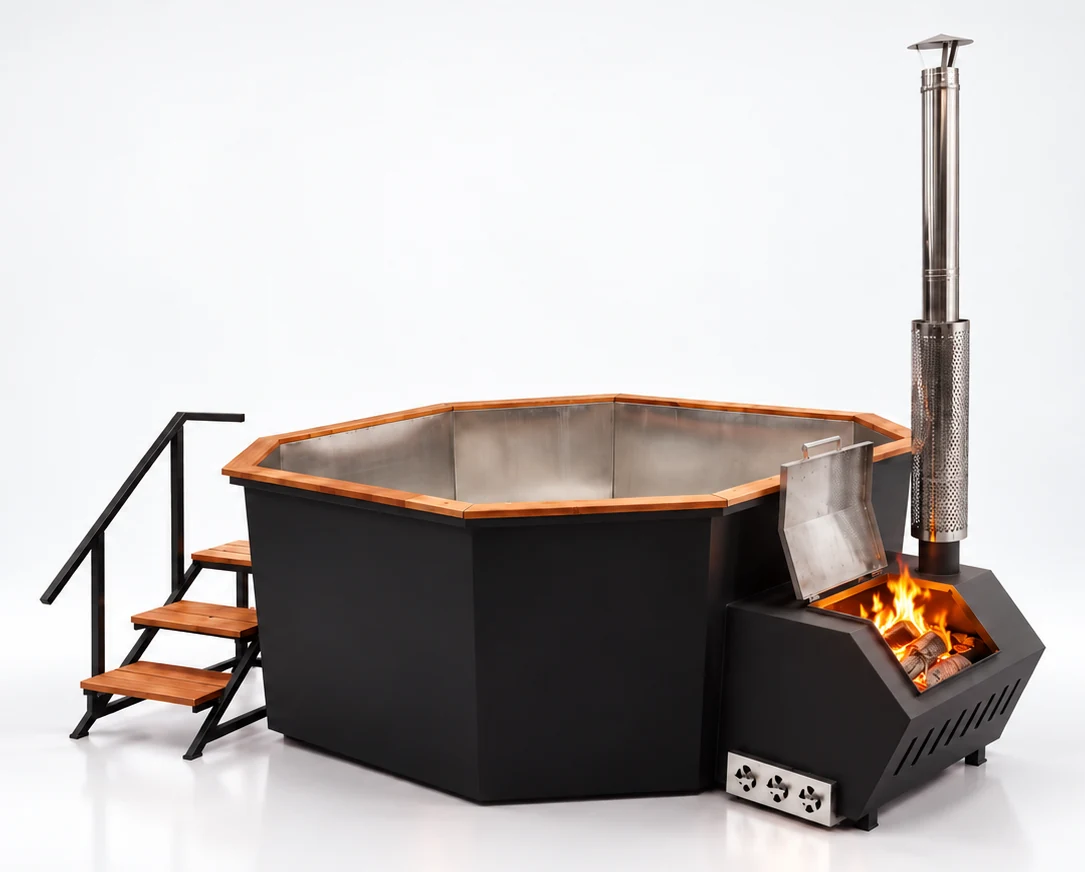
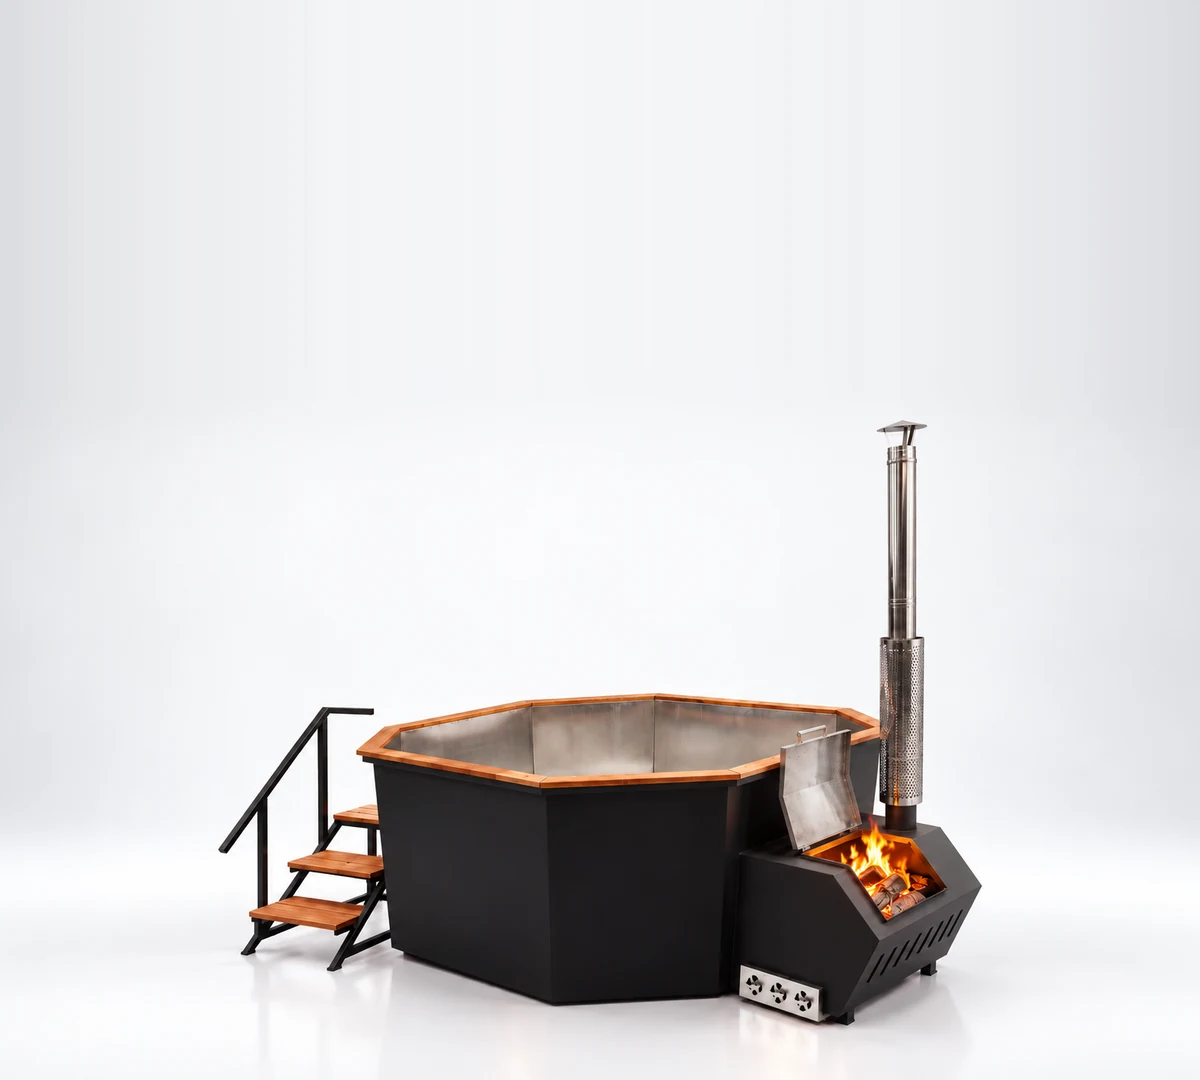
Let the card shots fill their block, and run them on the home page too
The photograph sat inside the block with the studio sweep ending at its own
edge, so the card showed a rectangle of one grey inside a panel of another
and read as a cropped picture. The shots are now laid out on a card-shaped
canvas by the script: the bowls still match across the line, but each image
fills its box edge to edge, and where a shot scaled down to match no longer
reaches the top, its own sweep is carried up to meet it rather than a colour
of ours being painted behind it.

Keying the product out of the backdrop was tried first. It does not work on
this set — the sweep is lit brightest directly behind the product, so any
backdrop test either keeps the hot centre or eats the chimney.

With the shots no longer framed, the home page shows them as well; it had
been holding out for photography that has now arrived.

Claude-Session: https://claude.ai/code/session_01TguMyRvyZftt8ueoPbGrxp

diff --git a/src/data/models.ts b/src/data/models.ts
@@ -76,15 +76,6 @@ export interface ModelPhotos {
   /** Product shot on the catalogue card — the studio set on a white sweep. */
   card?: string
   /**
-   * Width of the card shot inside its box, as a share of that box.
-   *
-   * Same story as `heroWidth`: the studio set shares one angle and one light
-   * but not one distance, so each shot needs its own width for the bowls to
-   * read as a single line. Computed by `scripts/normalise-card-photos.py` —
-   * re-run it after adding a photograph rather than guessing a value.
-   */
-  cardWidth?: number
-  /**
    * Width of the hero shot on a large screen, as a share of the viewport.
    *
    * Every photograph was taken at its own distance, so the same render width
@@ -170,7 +161,7 @@ export const models: Model[] = [
     ],
     // Only the model page's own hero: the home page and the catalogue card
     // are waiting for their own shots.
-    photos: { card: 'grafit-card.webp', cardWidth: 0.53, hero: 'grafit-hero.webp', heroWidth: 0.596, heroTone: '#263b44', heroBoost: 1.18 },
+    photos: { card: 'grafit-card.webp', hero: 'grafit-hero.webp', heroWidth: 0.596, heroTone: '#263b44', heroBoost: 1.18 },
     includes: [...commonIncludes, 'Ветрозащита без дна', 'Дымоход 3 м и защитный экран'],
     seoTitle: 'Банный чан «Графит»',
     seoDescription:
@@ -188,7 +179,7 @@ export const models: Model[] = [
     stove: 'Стационарная, чугунный колосник и выдвижной зольный ящик',
     bowlShape: 'faceted',
     theme: 'ink',
-    photos: { card: 'cherny-brilliant-card.webp', cardWidth: 0.534, hero: 'cherny-brilliant-hero.webp', heroWidth: 0.517, heroTone: '#441403' },
+    photos: { card: 'cherny-brilliant-card.webp', hero: 'cherny-brilliant-hero.webp', heroWidth: 0.517, heroTone: '#441403' },
     offers: [
       { cm: 175, price: 133000 },
       { cm: 210, price: 155500 },
@@ -215,7 +206,7 @@ export const models: Model[] = [
     stove: 'Разборная, жаропрочная сталь 09Г2С',
     bowlShape: 'rolled',
     theme: 'sand',
-    photos: { card: 'valtsovavich-card.webp', cardWidth: 0.756, hero: 'valtsovavich-hero.webp', heroWidth: 0.701, heroTone: '#3f4c5a' },
+    photos: { card: 'valtsovavich-card.webp', hero: 'valtsovavich-hero.webp', heroWidth: 0.701, heroTone: '#3f4c5a' },
     offers: [
       { cm: 175, price: 135000 },
       { cm: 210, price: 159000 },
@@ -243,7 +234,7 @@ export const models: Model[] = [
     bowlShape: 'faceted',
     theme: 'jade',
     badge: 'Хит продаж',
-    photos: { card: 'nefrit-card.webp', cardWidth: 0.562, hero: 'nefrit-hero.webp', heroWidth: 0.5, heroTone: '#3f4148' },
+    photos: { card: 'nefrit-card.webp', hero: 'nefrit-hero.webp', heroWidth: 0.5, heroTone: '#3f4148' },
     offers: [
       { cm: 175, price: 187000 },
       { cm: 210, price: 195990 },
@@ -271,7 +262,7 @@ export const models: Model[] = [
     stove: 'Выносная, водяной контур и теплосъёмные трубы',
     bowlShape: 'faceted',
     theme: 'olive',
-    photos: { card: 'oniks-card.webp', cardWidth: 0.96, hero: 'oniks-hero.webp', heroWidth: 0.751, heroTone: '#1a3935' },
+    photos: { card: 'oniks-card.webp', hero: 'oniks-hero.webp', heroWidth: 0.751, heroTone: '#1a3935' },
     offers: [
       { cm: 175, price: 188000 },
       { cm: 210, price: 199000 },
@@ -300,7 +291,7 @@ export const models: Model[] = [
     bowlShape: 'faceted',
     theme: 'terracotta',
     badge: 'Решение 4 в 1',
-    photos: { card: 'oniks-pro-card.webp', cardWidth: 0.81, hero: 'oniks-pro-hero.webp', heroWidth: 0.663, heroTone: '#692713' },
+    photos: { card: 'oniks-pro-card.webp', hero: 'oniks-pro-hero.webp', heroWidth: 0.663, heroTone: '#692713' },
     offers: [
       { cm: 210, price: 294000 },
       { cm: 235, price: 353000 },
@@ -327,7 +318,7 @@ export const models: Model[] = [
     stove: 'Боковая приварная расширенная, водяной контур и теплосъёмные трубы',
     bowlShape: 'faceted',
     theme: 'copper',
-    photos: { card: 'grant-card.webp', cardWidth: 0.686, hero: 'grant-hero.webp', heroWidth: 0.783, heroTone: '#60220b' },
+    photos: { card: 'grant-card.webp', hero: 'grant-hero.webp', heroWidth: 0.783, heroTone: '#60220b' },
     offers: [
       { cm: 235, price: 459000 },
       { cm: 250, price: 588000 },

diff --git a/src/components/ui/ModelCard.tsx b/src/components/ui/ModelCard.tsx
@@ -1,4 +1,3 @@
-import type { CSSProperties } from 'react'
 import { Link } from 'react-router-dom'
 import { ButtonLink } from './Button'
 import { ModelShot } from './ModelShot'
@@ -21,9 +20,9 @@ import {
  * while the catalogue page, which is where someone goes to compare the line,
  * shows every model as it really looks.
  *
- * The shot is contained rather than cropped, on a panel tinted to the studio
- * sweep it was photographed against, so the join is invisible; its width comes
- * from the model, so every bowl in the grid reads at one size.
+ * The shot fills its box edge to edge: `scripts/normalise-card-photos.py`
+ * lays each photograph out on a card-shaped canvas, so the page has no frame
+ * to draw around it and every bowl in the grid already reads at one size.
  */
 export function ModelCard({ model, photo = false }: { model: Model; photo?: boolean }) {
   return (
@@ -43,15 +42,7 @@ export function ModelCard({ model, photo = false }: { model: Model; photo?: bool
 
       <div className="relative mt-5 overflow-hidden rounded-card">
         {photo && model.photos?.card ? (
-          <div className="flex aspect-10/9 items-end justify-center bg-gradient-to-b from-[#ececed] to-[#f6f5f6]">
-            <ModelShot
-              model={model}
-              slot="card"
-              contain
-              style={{ '--card-w': `${(model.photos.cardWidth ?? 0.8) * 100}%` } as CSSProperties}
-              className="w-(--card-w)"
-            />
-          </div>
+          <ModelShot model={model} slot="card" ratio="10/9" />
         ) : (
           <PlaceholderImage
             tone="studio"

diff --git a/src/components/ui/ModelShot.tsx b/src/components/ui/ModelShot.tsx
@@ -8,6 +8,7 @@ type Slot = 'hero' | 'card'
 const ratios: Record<string, string> = {
   '4/3': 'aspect-4/3',
   '16/10': 'aspect-16/10',
+  '10/9': 'aspect-10/9',
 }
 
 /**
@@ -28,7 +29,7 @@ export function ModelShot({
   model: Model
   slot: Slot
   /** Ignored when `fill` is set — the shot then takes the parent's box. */
-  ratio?: '4/3' | '16/10'
+  ratio?: '4/3' | '16/10' | '10/9'
   className?: string
   /** Lets a caller size the shot, as the hero does per model. */
   style?: CSSProperties

diff --git a/src/pages/HomePage.tsx b/src/pages/HomePage.tsx
@@ -28,7 +28,7 @@ export function HomePage() {
     <>
       <Hero />
       <Advantages />
-      <Catalog />
+      <Catalog photos />
       <ModelShowcase />
       <Benefits />
       <Calculator />

diff --git a/scripts/normalise-card-photos.py b/scripts/normalise-card-photos.py
@@ -1,16 +1,22 @@
-"""Normalise the white-backdrop studio shots used on the catalogue cards.
+"""Lay out the white-backdrop studio shots as catalogue card images.
 
-The seven products were photographed on one sweep, in one light, from one
-angle — but not from one distance, so the bowl takes anywhere from a quarter
-to nearly half of its frame. Two steps bring them together: each shot is
-cropped to its own product, and each is given a render width, so rim x width
-lands on the same number for every model and the bowls read as one line.
+The seven products share one sweep, one light and one angle, but not one
+distance: the bowl takes anywhere from a quarter to nearly half of its frame.
+Each shot is therefore rescaled so that the bowl's rim lands on one width for
+the whole line, and placed on a card-shaped canvas, bottom-aligned and centred
+on the product.
 
-Why the width is not baked into the file: equalising the rims by padding or
-windowing inside the source cannot work for this set — Грант is framed so
-loosely that its window would have to be wider than the photograph, while
-Оникс has a chimney too tall for the window that its own rim would demand.
-Decoupling the width from the file is what lets every bowl match.
+The canvas is filled by the photograph itself rather than by a colour of ours.
+A shot scaled down far enough to match the others no longer reaches the top of
+the canvas, so the gap above it continues the sweep's own top edge, column by
+column — the sweep is smooth and nearly flat up there, so the join does not
+read. Keying the product out instead was tried first and does not work on this
+set: the sweep is lit brightest behind the product, so a backdrop test either
+keeps the hot centre or eats the chimney.
+
+The result is one image per model, all the same shape, each filling its box
+edge to edge — no frame around the photograph and nothing cropped off the
+product.
 
 Rim measurements are in pixels of the original frame. Six were found by
 scanning for the widest unbroken dark run in the upper frame; Грант's bowl is
@@ -19,7 +25,7 @@ was measured off the larch band instead.
 
     python3 scripts/normalise-card-photos.py
 """
-from PIL import Image
+from PIL import Image, ImageFilter
 
 SRC = 'assets/photos-src'
 DST = 'public/photos'
@@ -34,12 +40,17 @@ RIMS = {
     'grant': 724,
 }
 
-# Breathing room around the product, as a fraction of its own bounding box.
-MARGIN = 0.04
+# Card image shape and size. 10:9 is the shallowest box that holds the tallest
+# composition — Оникс, whose chimney stands well clear of its bowl.
+CANVAS = (1200, 1080)
 
-# Ceiling on how wide a card shot may run inside its box. The most loosely
-# framed model takes it and the rest come down to match.
-MAX_CARD = 0.96
+# Share of the canvas width taken by every bowl's rim. Raising it enlarges the
+# whole line together; past this, Оникс's chimney leaves the canvas.
+RIM_SHARE = 0.458
+
+# Where the product stands: its feet this far down the canvas, so the shot
+# keeps a little floor under it.
+FEET_AT = 0.95
 
 
 def content_box(image: Image.Image) -> tuple[int, int, int, int]:
@@ -50,22 +61,47 @@ def content_box(image: Image.Image) -> tuple[int, int, int, int]:
     return box
 
 
-rims = {}
+def extend_upwards(image: Image.Image, height: int) -> Image.Image:
+    """Carry the sweep's top edge up to fill a taller canvas.
+
+    The top of every one of these frames is an even, near-white band, so
+    repeating it reads as more of the same backdrop. The seam is softened so
+    that the change of slope does not show as a line.
+    """
+    if height <= 0:
+        return image
+    edge = image.crop((0, 0, image.width, 8)).resize((image.width, 1), Image.LANCZOS)
+    filler = edge.resize((image.width, height), Image.NEAREST)
+    grown = Image.new('RGB', (image.width, image.height + height))
+    grown.paste(filler, (0, 0))
+    grown.paste(image, (0, height))
+    seam = grown.crop((0, max(0, height - 24), image.width, height + 24))
+    grown.paste(seam.filter(ImageFilter.GaussianBlur(9)), (0, max(0, height - 24)))
+    return grown
+
+
+cw, ch = CANVAS
+print(f'{"model":20} {"scale":>7}  canvas fill')
 for name, rim_px in RIMS.items():
     original = Image.open(f'{SRC}/{name}-card.png').convert('RGB')
-    w, h = original.size
     x0, y0, x1, y1 = content_box(original)
-    pad = round((x1 - x0) * MARGIN)
-    crop = (max(0, x0 - pad), max(0, y0 - pad), min(w, x1 + pad), min(h, y1 + pad))
-    cropped = original.crop(crop)
-    cropped.save(f'{DST}/{name}-card.webp', 'WEBP', quality=88, method=6)
-    rims[name] = {'rim': rim_px / cropped.width, 'size': cropped.size}
 
-target = MAX_CARD * min(info['rim'] for info in rims.values())
+    scale = RIM_SHARE * cw / rim_px
+    shot = original.resize(
+        (round(original.width * scale), round(original.height * scale)), Image.LANCZOS
+    )
 
-print(f'{"model":20} {"cardWidth":>10}  {"rim":>7}  shape')
-for name, info in rims.items():
-    width = round(min(target / info['rim'], MAX_CARD), 3)
-    cw, ch = info['size']
-    print(f'{name:20} {width:>10}  {width * info["rim"]:.4f}  {cw}x{ch} -> '
-          f'{width * ch / cw:.3f} of box width')
+    # Feet on the floor line, product centred across the canvas.
+    top = round(FEET_AT * ch - y1 * scale)
+    left = round(cw / 2 - (x0 + x1) / 2 * scale)
+
+    # A shot too tall for the canvas is simply hung above its top edge; one
+    # too short has the sweep carried up to meet it.
+    canvas = Image.new('RGB', CANVAS)
+    if top > 0:
+        shot = extend_upwards(shot, top)
+        top = 0
+    canvas.paste(shot, (left, top))
+    canvas.save(f'{DST}/{name}-card.webp', 'WEBP', quality=88, method=6)
+
+    print(f'{name:20} {scale:>7.3f}  shot {shot.width}x{shot.height} at ({left}, {top})')
